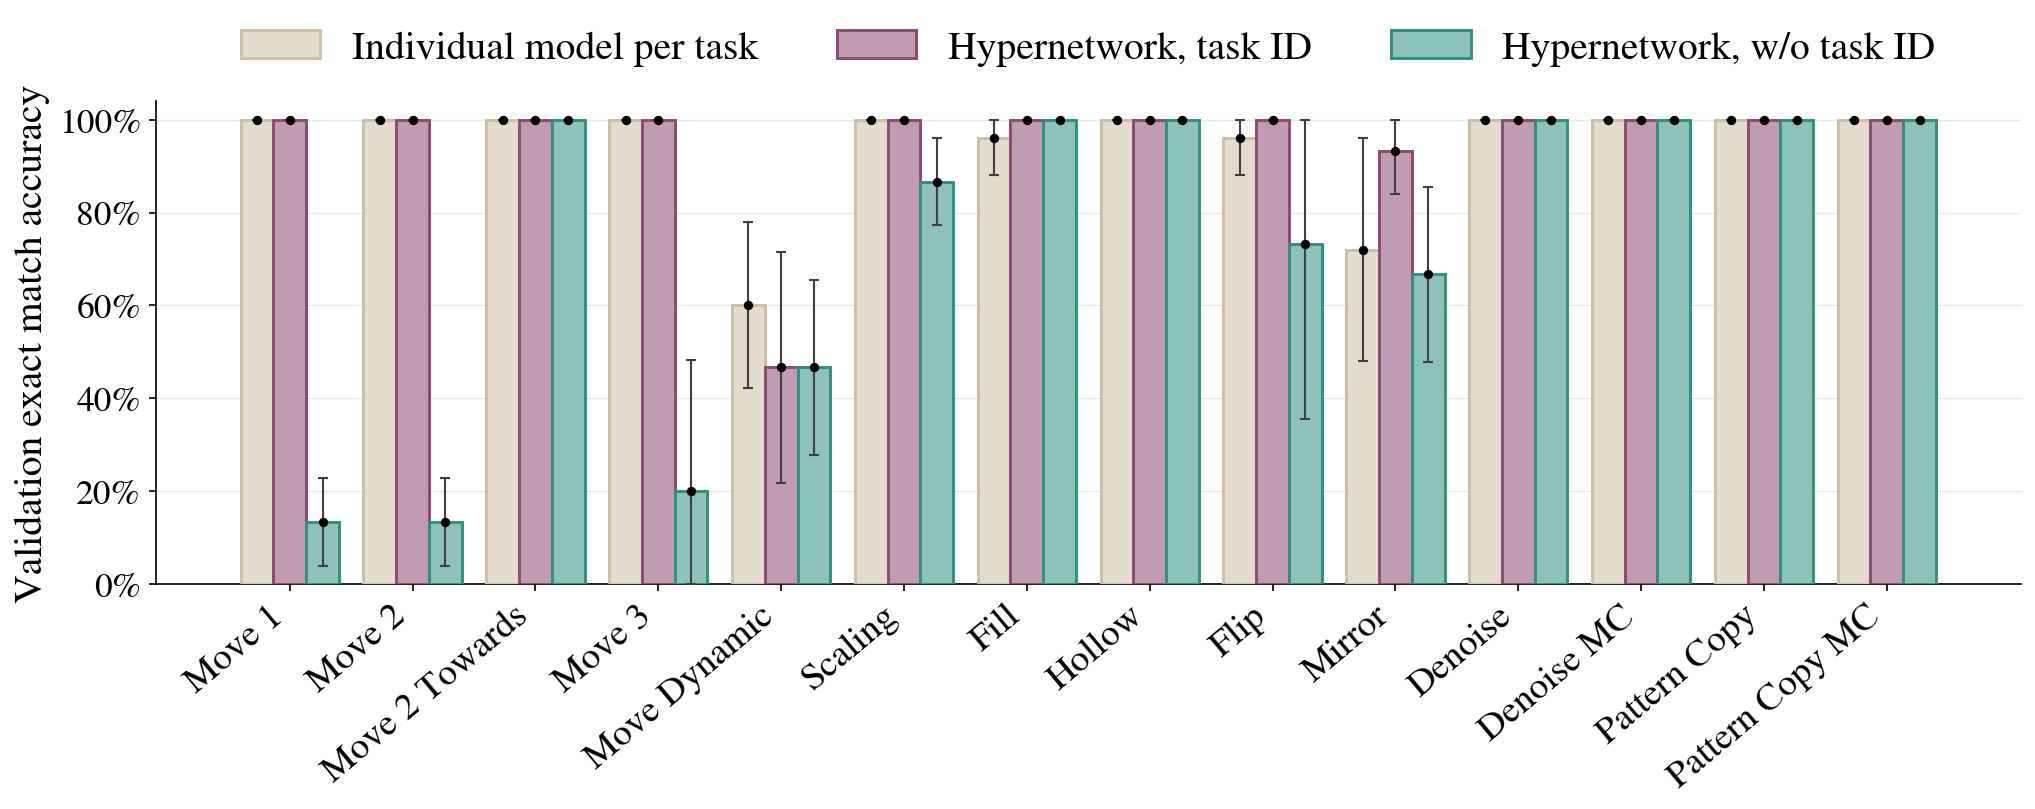
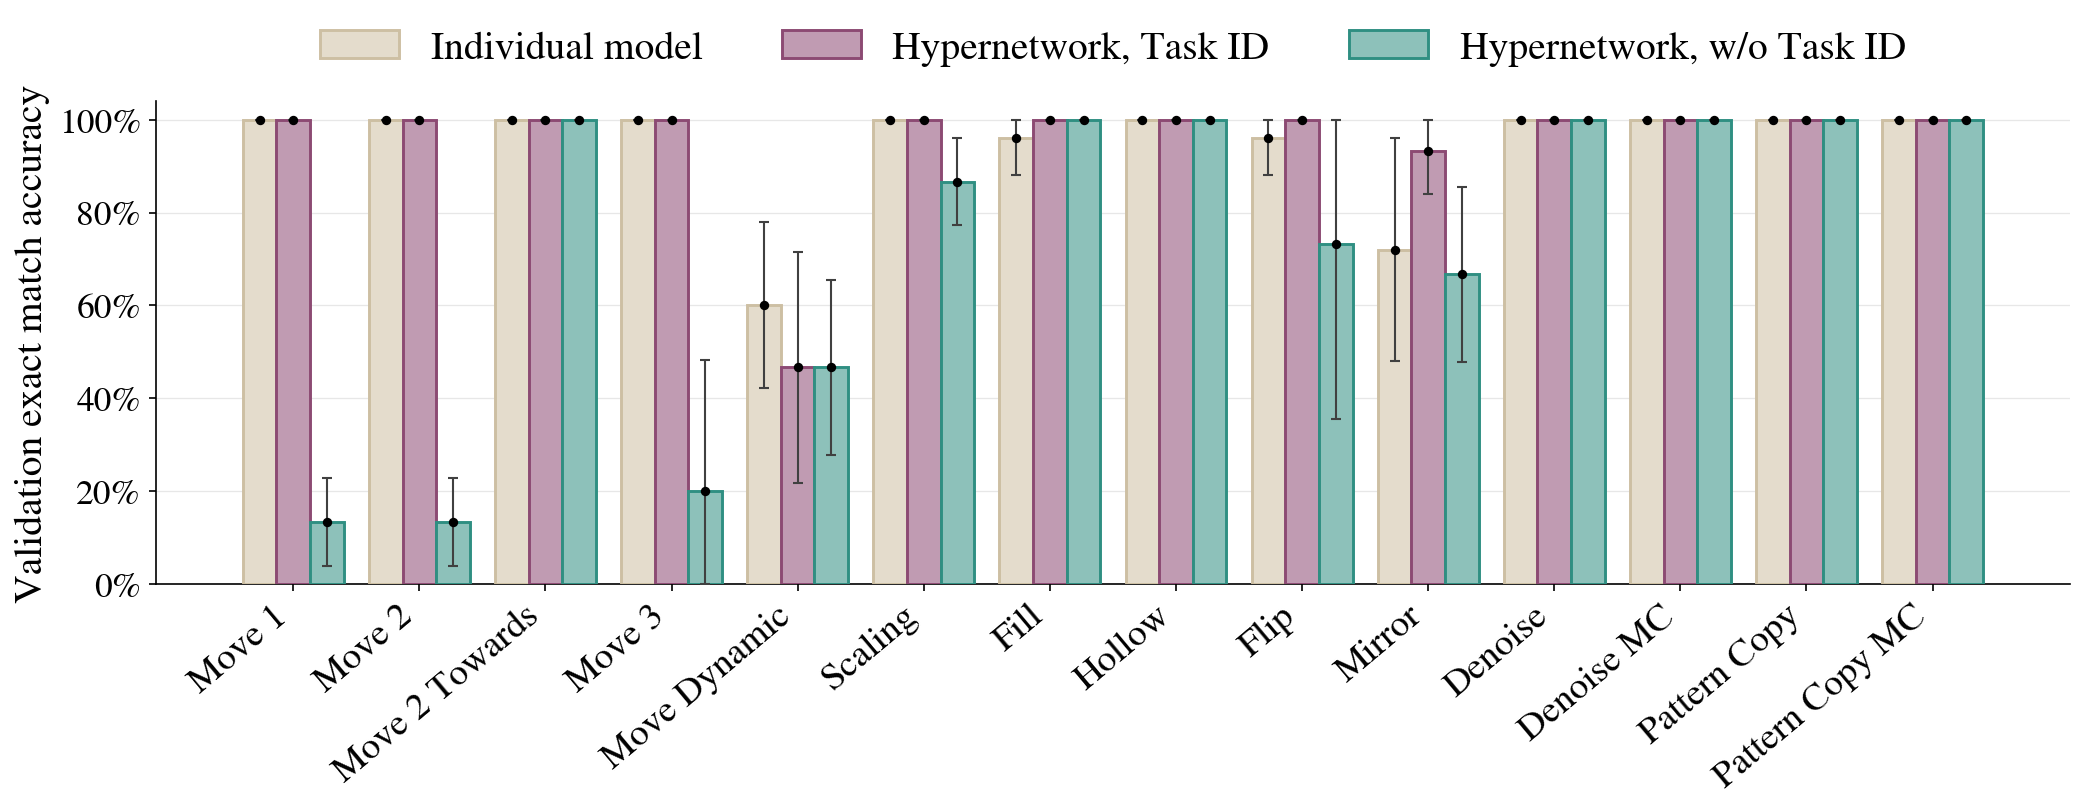
per_task_dim4/dim6: legend wording matches capacity_cliff convention
arc1d_v2_multitask/plot_per_task.py (per_task_dim6): 'Individual models per
task' -> 'Individual models'; 'Joint model with task ID' -> 'Joint model,
Task ID'; 'Joint model w/o task ID' -> 'Joint model, w/o Task ID' -- same
exact wording as capacity_cliff.png's legend now.

arc1d_v2_hypernetwork_multitask/plot_per_task_combined.py's shared LABELS
(per_task_dim4 imports from here): 'Individual model per task' ->
'Individual model'; capitalized Task in 'Hypernetwork, task ID' / 'Joint
direct, ... task ID' entries -> 'Hypernetwork, Task ID' / 'Hypernetwork,
w/o Task ID' (joint_td/joint_notd left lowercase -- not used by either of
the two bar charts currently in scope, only the separate 5-condition
combined plot).

diff --git a/configs/experiments/arc1d_v2_hypernetwork_multitask/plot_per_task_combined.py b/configs/experiments/arc1d_v2_hypernetwork_multitask/plot_per_task_combined.py
@@ -56,11 +56,11 @@ COLORS = {
     "hyper_notd": PAPER_COLORS[5],  # teal -- no task ID
 }
 LABELS = {
-    "individual": "Individual model per task",
+    "individual": "Individual model",
     "joint_td": "Joint direct, task ID",
     "joint_notd": "Joint direct, w/o task ID",
-    "hyper_td": "Hypernetwork, task ID",
-    "hyper_notd": "Hypernetwork, w/o task ID",
+    "hyper_td": "Hypernetwork, Task ID",
+    "hyper_notd": "Hypernetwork, w/o Task ID",
 }
 # Task-ID always to the left of its no-task-ID counterpart within each pair.
 CONDITIONS = ("individual", "joint_td", "joint_notd", "hyper_td", "hyper_notd")

diff --git a/configs/experiments/arc1d_v2_multitask/plot_per_task.py b/configs/experiments/arc1d_v2_multitask/plot_per_task.py
@@ -56,9 +56,9 @@ COLORS = {
     "notd": PAPER_COLORS[6],  # slate blue -- joint, no task ID
 }
 LABELS = {
-    "individual": "Individual models per task",
-    "td": "Joint model with task ID",
-    "notd": "Joint model w/o task ID",
+    "individual": "Individual models",
+    "td": "Joint model, Task ID",
+    "notd": "Joint model, w/o Task ID",
 }
 CSV_FIELDS = ["condition", "dim", "task", "seed", "val_exact_match"]
 
